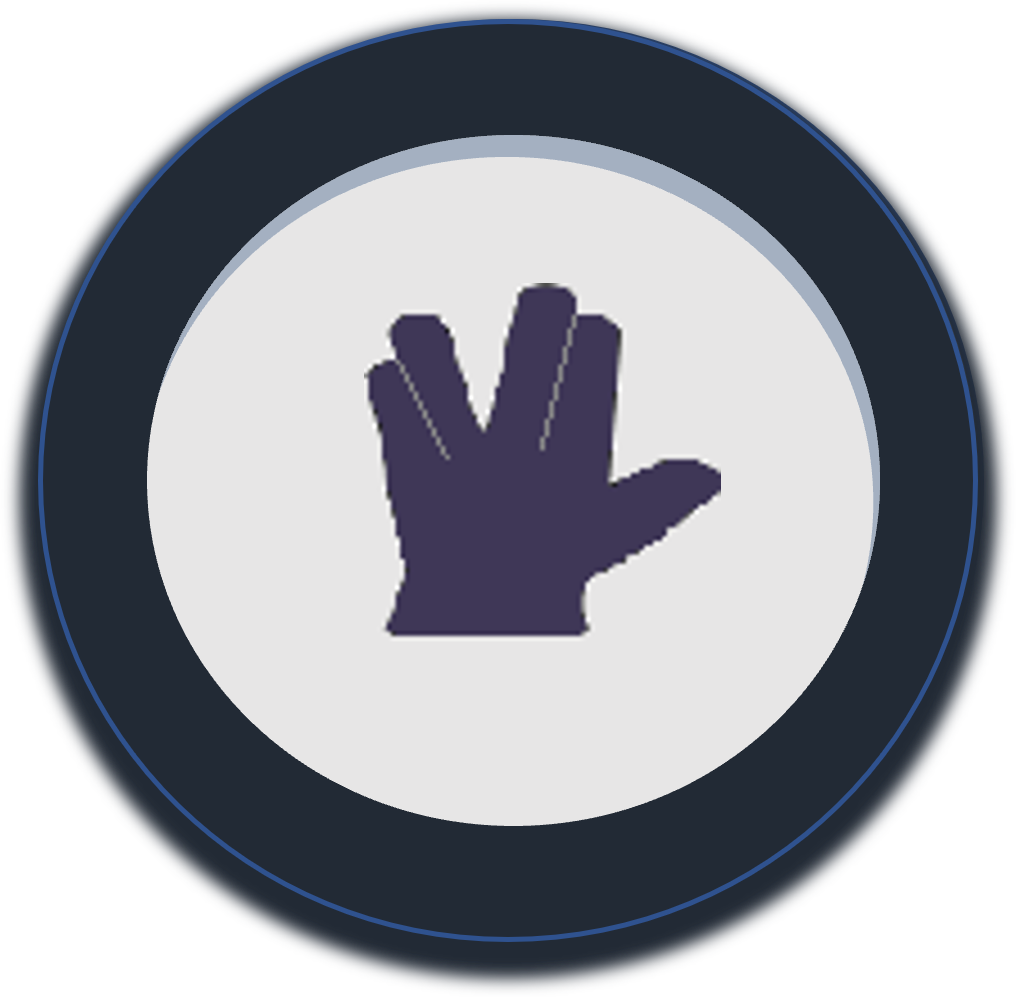
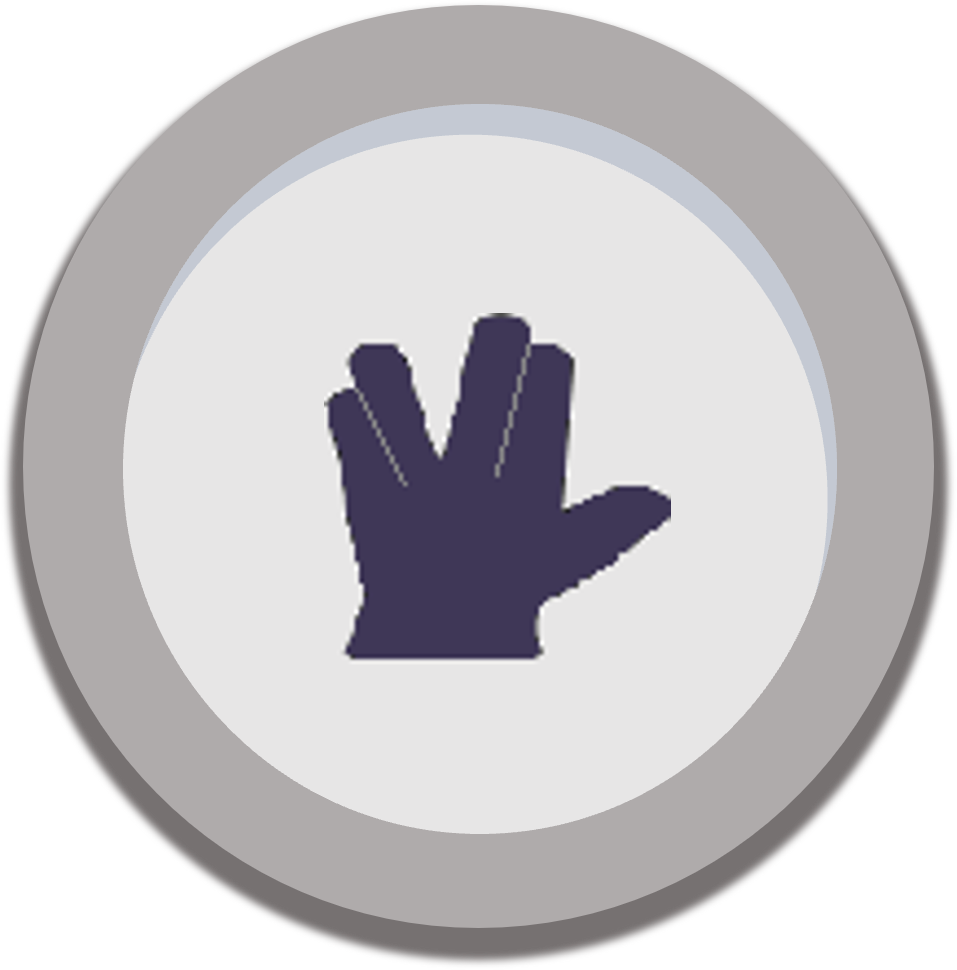
Add changes

diff --git a/assets/css/style.css b/assets/css/style.css
@@ -75,14 +75,13 @@
   }
   
   .hands {
+    margin-top: 50px;
     background-position: center;
     background-repeat: no-repeat;
     visibility: visible;
     opacity: 1;
     position: relative;
-    width: 476px;
-    height: 430px;
-    margin-top: 100px;
+    width: 600px;
     display: flex;
     z-index: 0;
     flex-wrap: wrap;
